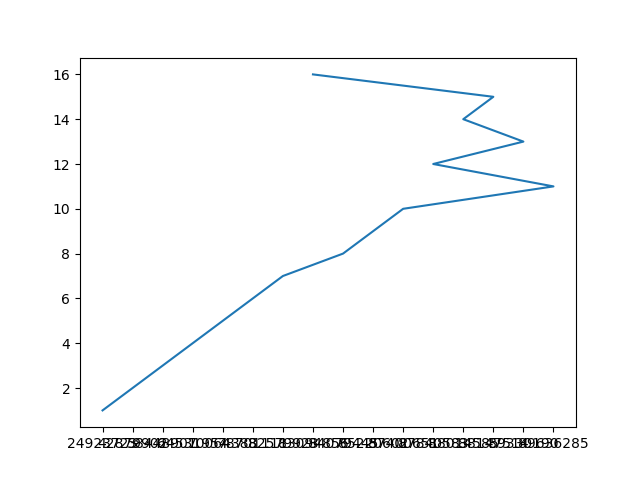
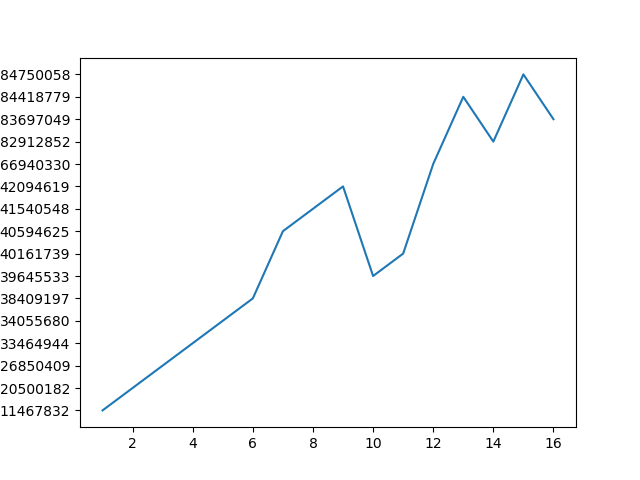
testing graphing with 16 threads

diff --git a/benchmarks/testing_script.py b/benchmarks/testing_script.py
@@ -170,6 +170,6 @@ def make_graph(outfile):
         line = output.readline()
     print(throughput_list)
     print(threads_list)
-    plt.plot(throughput_list, threads_list)
+    plt.plot(threads_list,throughput_list)
     plt.savefig('result.png')
 testing_routine()

diff --git a/README.md b/README.md
@@ -26,7 +26,18 @@ threadtest
 To build the tests you can either run testing_script.py with the preferred arguments as mentioned above, or
 
 cd benchmarks
+
 make
 
+
 This will make all the tests included in this package and you can run these tests individually
+
+# argument varying instructions
+
+To do work with non default parameters the program has to be ran on one test at a time, here is a quick glossary on what the parameters are for each test, and which parameters could be iterated on.
+
+Larson:-  Parameters: <number-of-threads> <iterations> <num-objects> <work-interval> <object-size>
+
+Iterable parameters : <number-of-threads>
+
 
